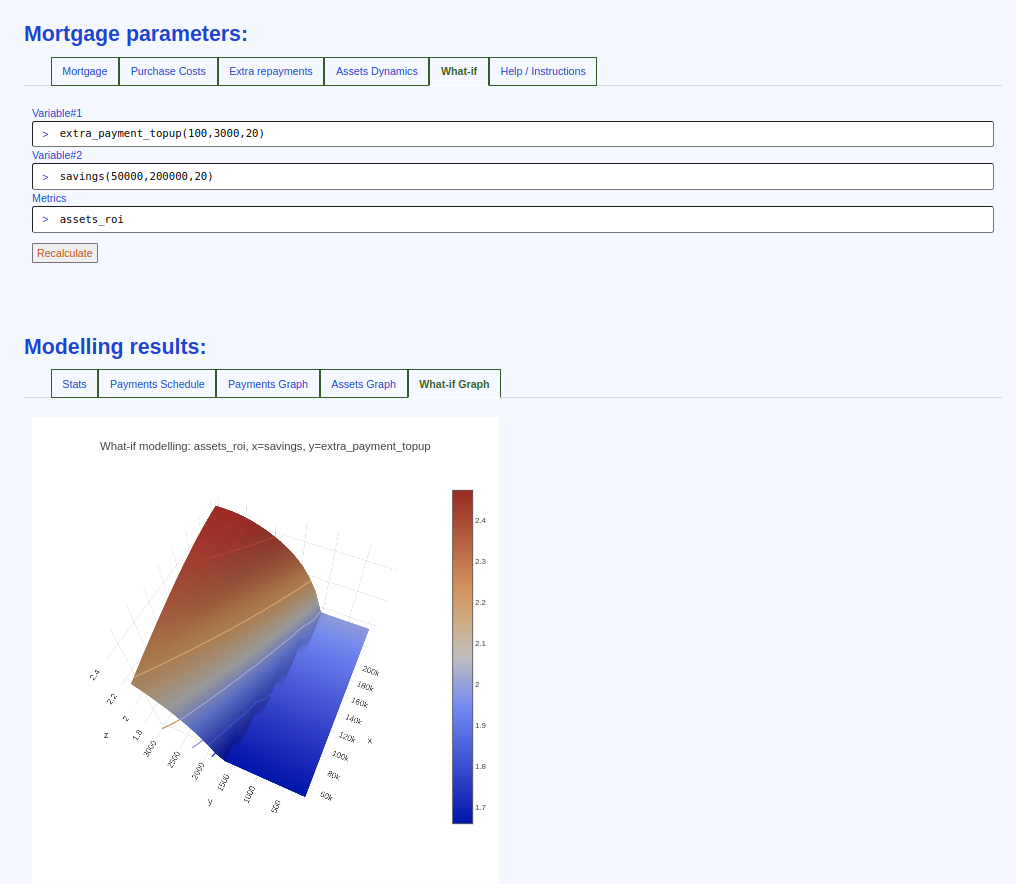
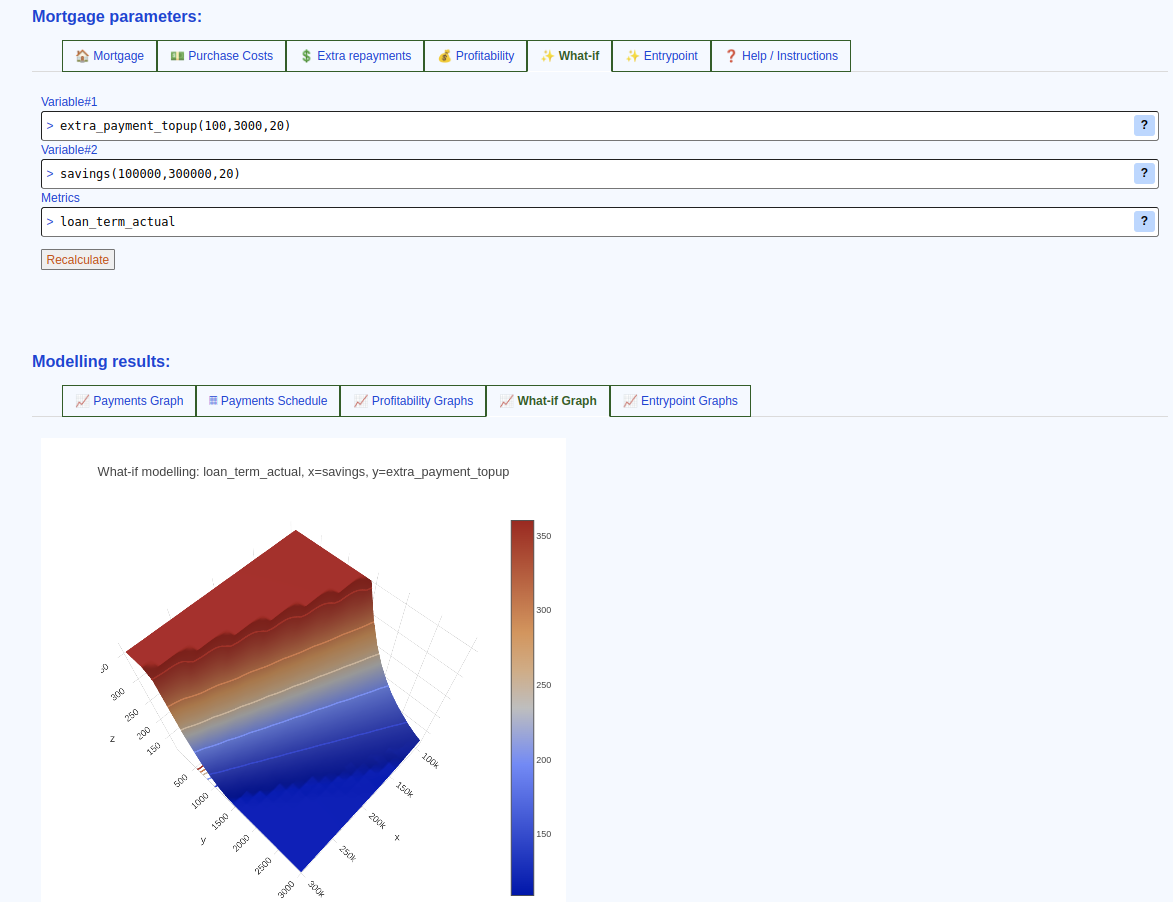
update

diff --git a/README.md b/README.md
@@ -35,22 +35,22 @@ Allowes for mortgage modelling as a function of a parameter(s).
 ![what-if analysis, 2d](images/screenshot-whatif.png)
 
 Allowes bi-parametric modelling.
-* With two parameters being "tested" - target metric drawn on a 3-D surface plot (e.g. Housing assets ROI).
+* With two parameters being "tested" - target metric drawn on a 3-D surface plot (e.g. actual mortgage term as a function of both extra monthly repayment and initial downpayment).
 
 ![what-if analysis, 3d](images/screenshot-whatif2.png)
 
 ---
 # hosted on github pages:
 
- * English: [Mortgage calculator tool (Netherlands)](https://hypotheek-bereken.com/)
- * Dutch: [Hypotheek berekenen](https://hypotheek-bereken.com/index-nl.html)
+ * English: [Mortgage calculator tool (Netherlands)](https://hypotheek-bereken.com/nl/rekenmachine.html)
+ * Dutch: [Hypotheek berekenen](https://hypotheek-bereken.com/en/mortgage-calculator.html)
 
 ---
 # Local development / testing:
 
 1. clone the repo: `git clone https://github.com/r0d1on/mortgage-tool`
 2. make changes
-3. open `index.html` in your browser
+3. open `./en/mortgage-calculator.html` in your browser
 
 
 ---
